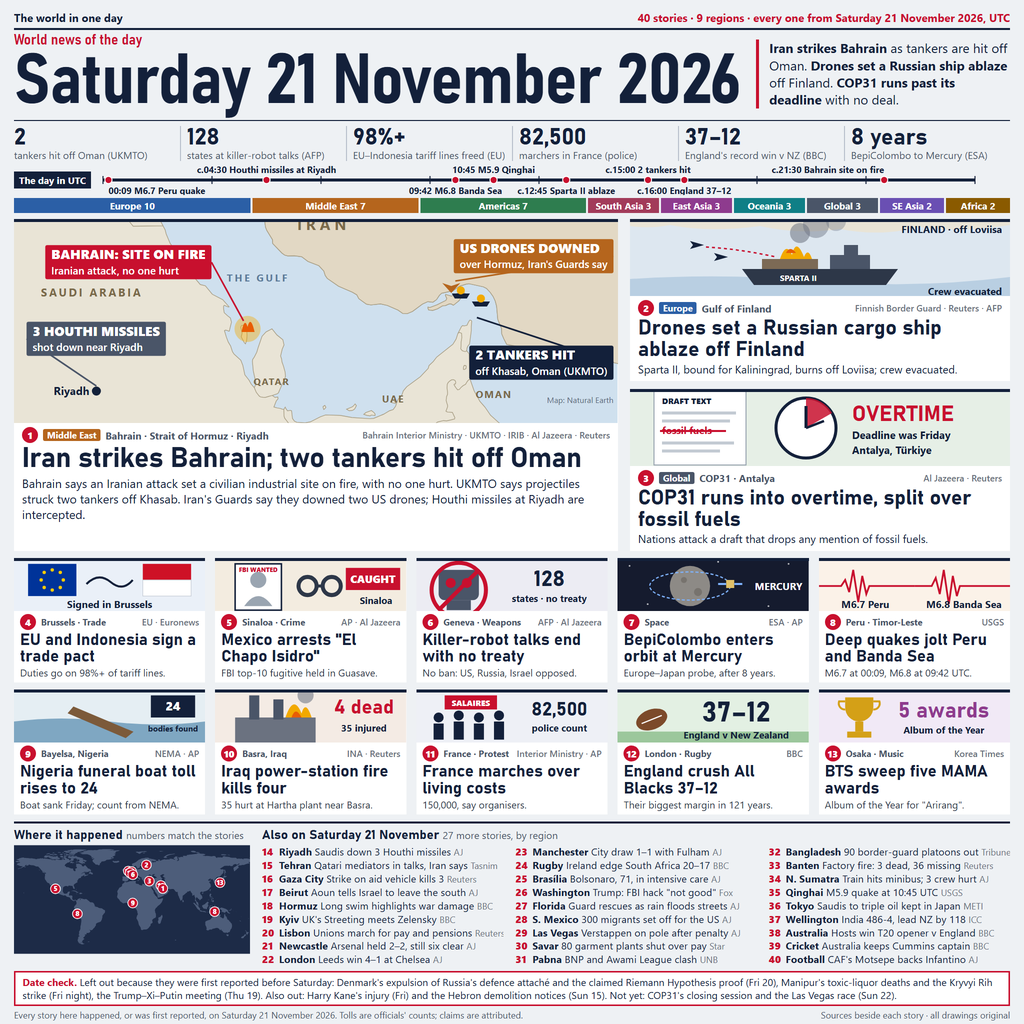
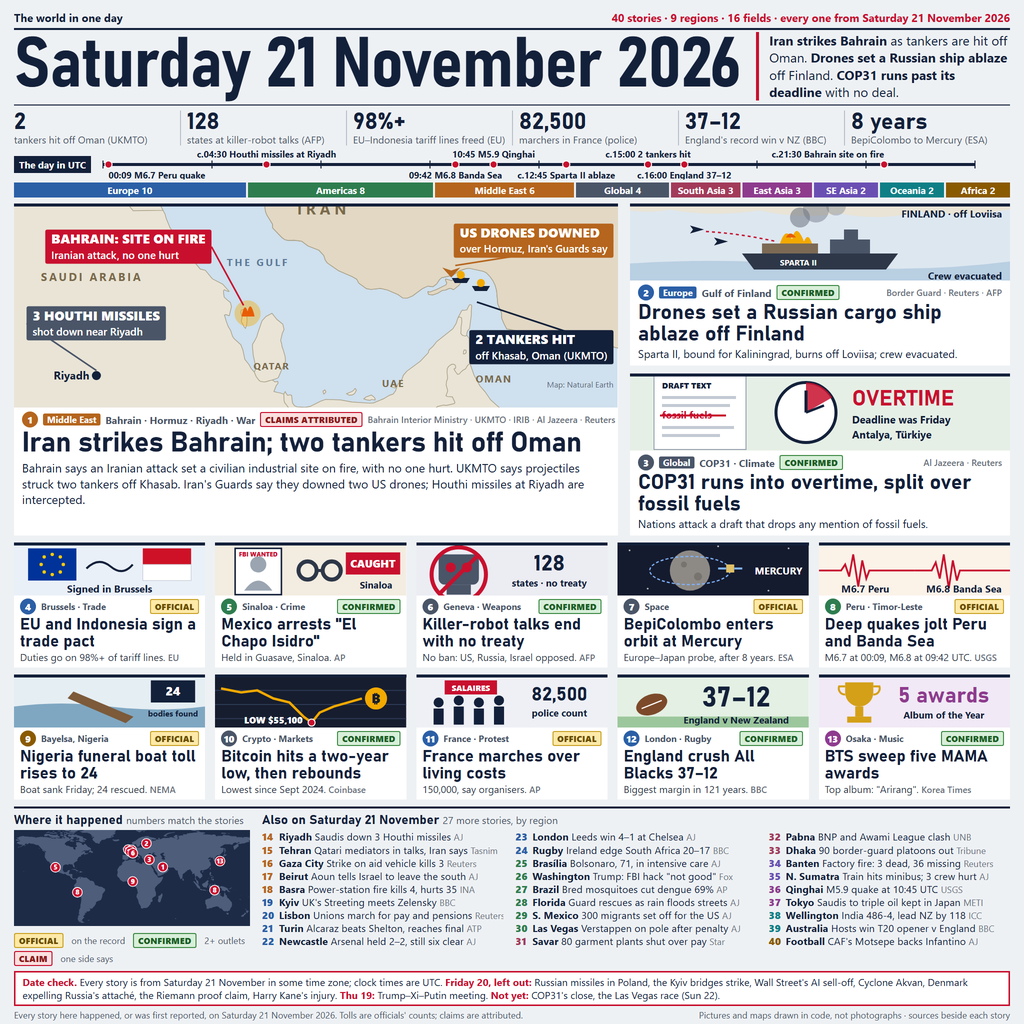
v5: confidence tags, region-coloured story numbers, Bitcoin card, fuller date check

diff --git a/src/front.html b/src/front.html
@@ -1,4 +1,4 @@
-<!DOCTYPE html>
+<!DOCTYPE html>
 <html lang="en">
 <head>
 <meta charset="utf-8">
@@ -49,6 +49,14 @@
   .n { display: inline-flex; align-items: center; justify-content: center; width: 16px; height: 16px; border-radius: 50%;
     background: var(--red); color: #fff; font-size: 9.5px; font-weight: 800; flex: none; }
   .reg { color: #fff; padding: 0 4px; border-radius: 2px; font-size: 9px; }
+  .tag { font-size: 8.5px; font-weight: 800; padding: 0 4px; border-radius: 2px; line-height: 13px; letter-spacing: .02em; }
+  .t-off { background: #fde9a8; color: #6b4e00; border: 1px solid #c9a227; }
+  .t-con { background: #d8efd9; color: #1d5e25; border: 1px solid #3d8b45; }
+  .t-clm { background: #fbe0e0; color: #8b1a1a; border: 1px solid #c8102e; }
+  .t-rep { background: #e6e9ee; color: #374151; border: 1px solid #8a94a3; }
+  .c { position: relative; }
+  .c p em.s { font-style: normal; color: #6b7280; font-size: 9px; font-weight: 600; }
+  .legend { display: flex; flex-wrap: wrap; gap: 3px 8px; font-size: 9px; color: var(--muted); margin-top: 3px; align-items: center; }
   .src { margin-left: auto; font-weight: 600; font-size: 9px; color: #6b7280; }
   .lead h2 { font-family: "Bahnschrift", sans-serif; font-weight: 700; font-size: 28px; line-height: 1.02; margin: 2px 8px 2px; letter-spacing: -.3px; }
   .lead p { font-size: 12px; line-height: 1.3; margin: 0 8px; }
@@ -69,7 +77,7 @@
   .hd { font-family: "Bahnschrift", sans-serif; font-weight: 700; font-size: 13px; margin-bottom: 2px; }
   .hd span { font-family: "Segoe UI"; font-weight: 400; font-size: 10px; color: var(--muted); }
   .briefs { display: grid; grid-template-columns: 1fr 1fr 1fr; grid-template-rows: repeat(9, auto); grid-auto-flow: column; column-gap: 12px; }
-  .briefs div { font-size: 10.2px; line-height: 1.32; white-space: nowrap; overflow: hidden; text-overflow: clip; }
+  .briefs div { font-size: 10.2px; line-height: 1.28; white-space: nowrap; overflow: hidden; text-overflow: clip; }
   .briefs i { font-style: normal; display: inline-block; width: 17px; font-weight: 800; color: var(--red); }
   .briefs b { font-weight: 700; }
   .briefs em { font-style: normal; color: #6b7280; font-size: 9px; }
@@ -82,10 +90,10 @@
 </head>
 <body>
 
-<div class="top"><span>The world in one day</span><span class="r">40 stories · 9 regions · every one from Saturday 21 November 2026, UTC</span></div>
+<div class="top"><span>The world in one day</span><span class="r">40 stories · 9 regions · 16 fields · every one from Saturday 21 November 2026</span></div>
 
 <div class="mast">
-  <h1 class="cond"><small>World news of the day</small>Saturday 21 November 2026</h1>
+  <h1 class="cond">Saturday 21 November 2026</h1>
   <div class="lede"><b>Iran strikes Bahrain</b> as tankers are hit off Oman. <b>Drones set a Russian ship ablaze</b> off Finland. <b>COP31 runs past its deadline</b> with no deal.</div>
 </div>
 
@@ -112,7 +120,7 @@
       <path d="{{GULF_IRAN}}" fill="#e2d8c4" stroke="#a99f86" stroke-width=".7"/>
       <g id="gulf-marks"></g>
     </svg>
-    <div class="meta"><span class="n">1</span><span class="reg" style="background:var(--me)">Middle East</span>Bahrain · Strait of Hormuz · Riyadh<span class="src">Bahrain Interior Ministry · UKMTO · IRIB · Al Jazeera · Reuters</span></div>
+    <div class="meta"><span class="n" style="background:#b5651d">1</span><span class="reg" style="background:var(--me)">Middle East</span>Bahrain · Hormuz · Riyadh · War<span class="tag t-clm">CLAIMS ATTRIBUTED</span><span class="src">Bahrain Interior Ministry · UKMTO · IRIB · Al Jazeera · Reuters</span></div>
     <h2>Iran strikes Bahrain; two tankers hit off Oman</h2>
     <p>Bahrain says an Iranian attack set a civilian industrial site on fire, with no one hurt. UKMTO says projectiles struck two tankers off Khasab. Iran's Guards say they downed two US drones; Houthi missiles at Riyadh are intercepted.</p>
   </div>
@@ -139,7 +147,7 @@
         <path d="M76 36 Q 110 38 146 46" stroke="var(--red)" stroke-width="1.4" stroke-dasharray="3 3" fill="none"/>
         <text x="372" y="84" text-anchor="end" class="lbl" style="font-size:10px">Crew evacuated</text>
       </svg>
-      <div class="meta"><span class="n">2</span><span class="reg" style="background:var(--eu)">Europe</span>Gulf of Finland<span class="src">Finnish Border Guard · Reuters · AFP</span></div>
+      <div class="meta"><span class="n" style="background:#2b5fa6">2</span><span class="reg" style="background:var(--eu)">Europe</span>Gulf of Finland<span class="tag t-con">CONFIRMED</span><span class="src">Border Guard · Reuters · AFP</span></div>
       <h2>Drones set a Russian cargo ship ablaze off Finland</h2>
       <p>Sparta II, bound for Kaliningrad, burns off Loviisa; crew evacuated.</p>
     </div>
@@ -160,7 +168,7 @@
         <text x="222" y="58" class="lbl" style="font-size:10.5px">Deadline was Friday</text>
         <text x="222" y="73" class="lbl" style="font-size:10.5px">Antalya, Türkiye</text>
       </svg>
-      <div class="meta"><span class="n">3</span><span class="reg" style="background:var(--gl)">Global</span>COP31 · Antalya<span class="src">Al Jazeera · Reuters</span></div>
+      <div class="meta"><span class="n" style="background:#4a5568">3</span><span class="reg" style="background:var(--gl)">Global</span>COP31 · Climate<span class="tag t-con">CONFIRMED</span><span class="src">Al Jazeera · Reuters</span></div>
       <h2>COP31 runs into overtime, split over fossil fuels</h2>
       <p>Nations attack a draft that drops any mention of fossil fuels.</p>
     </div>
@@ -178,9 +186,9 @@
       <path d="M72 28 Q 84 16 96 26 Q 108 36 118 24" stroke="var(--ink)" stroke-width="2" fill="none"/>
       <text x="95" y="52" text-anchor="middle" class="lbl" style="font-size:10px">Signed in Brussels</text>
     </svg>
-    <div class="meta"><span class="n">4</span>Brussels · Trade<span class="src">EU · Euronews</span></div>
+    <div class="meta"><span class="n" style="background:#2b5fa6">4</span>Brussels · Trade<span class="tag t-off" style="margin-left:auto">OFFICIAL</span></div>
     <h3>EU and Indonesia sign a trade pact</h3>
-    <p>Duties go on 98%+ of tariff lines.</p>
+    <p>Duties go on 98%+ of tariff lines. <em class="s">EU</em></p>
   </div>
 
   <div class="c">
@@ -194,9 +202,9 @@
       <text x="157" y="27" text-anchor="middle" fill="#fff" style="font-size:10.5px;font-weight:800">CAUGHT</text>
       <text x="160" y="48" text-anchor="middle" class="lbl" style="font-size:9.5px">Sinaloa</text>
     </svg>
-    <div class="meta"><span class="n">5</span>Sinaloa · Crime<span class="src">AP · Al Jazeera</span></div>
+    <div class="meta"><span class="n" style="background:#2e7d4f">5</span>Sinaloa · Crime<span class="tag t-con" style="margin-left:auto">CONFIRMED</span></div>
     <h3>Mexico arrests "El Chapo Isidro"</h3>
-    <p>FBI top-10 fugitive held in Guasave.</p>
+    <p>Held in Guasave, Sinaloa. <em class="s">AP</em></p>
   </div>
 
   <div class="c">
@@ -208,9 +216,9 @@
       <text x="132" y="30" text-anchor="middle" style="font-size:22px;font-weight:800;font-family:Bahnschrift" fill="var(--ink)">128</text>
       <text x="132" y="46" text-anchor="middle" class="lbl" style="font-size:9.5px">states · no treaty</text>
     </svg>
-    <div class="meta"><span class="n">6</span>Geneva · Weapons<span class="src">AFP · Al Jazeera</span></div>
+    <div class="meta"><span class="n" style="background:#4a5568">6</span>Geneva · Weapons<span class="tag t-con" style="margin-left:auto">CONFIRMED</span></div>
     <h3>Killer-robot talks end with no treaty</h3>
-    <p>No ban: US, Russia, Israel opposed.</p>
+    <p>No ban: US, Russia, Israel opposed. <em class="s">AFP</em></p>
   </div>
 
   <div class="c">
@@ -222,9 +230,9 @@
       <rect x="108" y="24" width="8" height="8" fill="#e0c068"/><rect x="100" y="27" width="8" height="2" fill="#7fb3ff"/><rect x="116" y="27" width="8" height="2" fill="#7fb3ff"/>
       <text x="160" y="34" text-anchor="middle" fill="#fff" style="font-size:10px;font-weight:700">MERCURY</text>
     </svg>
-    <div class="meta"><span class="n">7</span>Space<span class="src">ESA · AP</span></div>
+    <div class="meta"><span class="n" style="background:#4a5568">7</span>Space<span class="tag t-off" style="margin-left:auto">OFFICIAL</span></div>
     <h3>BepiColombo enters orbit at Mercury</h3>
-    <p>Europe–Japan probe, after 8 years.</p>
+    <p>Europe–Japan probe, after 8 years. <em class="s">ESA</em></p>
   </div>
 
   <div class="c">
@@ -235,9 +243,9 @@
       <text x="46" y="52" text-anchor="middle" class="lbl" style="font-size:10px">M6.7 Peru</text>
       <text x="144" y="52" text-anchor="middle" class="lbl" style="font-size:10px">M6.8 Banda Sea</text>
     </svg>
-    <div class="meta"><span class="n">8</span>Peru · Timor-Leste<span class="src">USGS</span></div>
+    <div class="meta"><span class="n" style="background:#2e7d4f">8</span>Peru · Timor-Leste<span class="tag t-off" style="margin-left:auto">OFFICIAL</span></div>
     <h3>Deep quakes jolt Peru and Banda Sea</h3>
-    <p>M6.7 at 00:09, M6.8 at 09:42 UTC.</p>
+    <p>M6.7 at 00:09, M6.8 at 09:42 UTC. <em class="s">USGS</em></p>
   </div>
 
   <div class="c">
@@ -249,23 +257,23 @@
       <text x="158" y="23" text-anchor="middle" fill="#fff" style="font-size:12px;font-weight:800">24</text>
       <text x="158" y="44" text-anchor="middle" fill="var(--ink)" style="font-size:8px;font-weight:700">bodies found</text>
     </svg>
-    <div class="meta"><span class="n">9</span>Bayelsa, Nigeria<span class="src">NEMA · AP</span></div>
+    <div class="meta"><span class="n" style="background:#8a5a00">9</span>Bayelsa, Nigeria<span class="tag t-off" style="margin-left:auto">OFFICIAL</span></div>
     <h3>Nigeria funeral boat toll rises to 24</h3>
-    <p>Boat sank Friday; count from NEMA.</p>
+    <p>Boat sank Friday; 24 rescued. <em class="s">NEMA</em></p>
   </div>
 
   <div class="c">
     <svg viewBox="0 0 190 60" preserveAspectRatio="xMidYMid slice">
-      <rect width="190" height="60" fill="#f4ebe4"/>
-      <rect x="20" y="30" width="80" height="26" fill="#6b7280"/><rect x="34" y="8" width="10" height="24" fill="#4a5568"/><rect x="58" y="12" width="10" height="20" fill="#4a5568"/>
-      <path d="M70 30 Q 78 6 86 26 Q 90 12 96 30Z" fill="var(--amber)"/><path d="M76 30 Q 80 18 86 30Z" fill="#e85d04"/>
-      <circle cx="90" cy="8" r="8" fill="#4a5568" opacity=".45"/>
-      <text x="148" y="26" text-anchor="middle" style="font-size:20px;font-weight:800;font-family:Bahnschrift" fill="var(--red)">4 dead</text>
-      <text x="148" y="44" text-anchor="middle" class="lbl" style="font-size:9.5px">35 injured</text>
+      <rect width="190" height="60" fill="#161d2e"/>
+      <g stroke="#2c3a55" stroke-width="1"><line x1="0" y1="18" x2="190" y2="18"/><line x1="0" y1="32" x2="190" y2="32"/><line x1="0" y1="46" x2="190" y2="46"/></g>
+      <path d="M6 16 L26 20 L42 18 L58 26 L74 30 L88 44 L96 50 L104 40 L118 34 L132 30 L146 26" stroke="#f2a900" stroke-width="2.4" fill="none"/>
+      <circle cx="96" cy="50" r="3.5" fill="#c8102e" stroke="#fff" stroke-width="1"/>
+      <text x="58" y="51" text-anchor="middle" fill="#fff" style="font-size:9px;font-weight:800">LOW $55,100</text>
+      <circle cx="160" cy="26" r="11" fill="#f2a900"/><text x="160" y="30.5" text-anchor="middle" fill="#161d2e" style="font-size:13px;font-weight:800">₿</text>
     </svg>
-    <div class="meta"><span class="n">10</span>Basra, Iraq<span class="src">INA · Reuters</span></div>
-    <h3>Iraq power-station fire kills four</h3>
-    <p>35 hurt at Hartha plant near Basra.</p>
+    <div class="meta"><span class="n" style="background:#4a5568">10</span>Crypto · Markets<span class="tag t-con" style="margin-left:auto">CONFIRMED</span></div>
+    <h3>Bitcoin hits a two-year low, then rebounds</h3>
+    <p>Lowest since Sept 2024. <em class="s">Coinbase</em></p>
   </div>
 
   <div class="c">
@@ -281,9 +289,9 @@
       <text x="142" y="28" text-anchor="middle" style="font-size:19px;font-weight:800;font-family:Bahnschrift" fill="var(--ink)">82,500</text>
       <text x="142" y="44" text-anchor="middle" class="lbl" style="font-size:9.5px">police count</text>
     </svg>
-    <div class="meta"><span class="n">11</span>France · Protest<span class="src">Interior Ministry · AP</span></div>
+    <div class="meta"><span class="n" style="background:#2b5fa6">11</span>France · Protest<span class="tag t-off" style="margin-left:auto">OFFICIAL</span></div>
     <h3>France marches over living costs</h3>
-    <p>150,000, say organisers.</p>
+    <p>150,000, say organisers. <em class="s">AP</em></p>
   </div>
 
   <div class="c">
@@ -294,9 +302,9 @@
       <text x="118" y="34" text-anchor="middle" style="font-size:28px;font-weight:800;font-family:Bahnschrift" fill="var(--ink)">37–12</text>
       <text x="118" y="51" text-anchor="middle" class="lbl" style="font-size:9.5px">England v New Zealand</text>
     </svg>
-    <div class="meta"><span class="n">12</span>London · Rugby<span class="src">BBC</span></div>
+    <div class="meta"><span class="n" style="background:#2b5fa6">12</span>London · Rugby<span class="tag t-con" style="margin-left:auto">CONFIRMED</span></div>
     <h3>England crush All Blacks 37–12</h3>
-    <p>Their biggest margin in 121 years.</p>
+    <p>Biggest margin in 121 years. <em class="s">BBC</em></p>
   </div>
 
   <div class="c">
@@ -307,9 +315,9 @@
       <text x="124" y="30" text-anchor="middle" style="font-size:22px;font-weight:800;font-family:Bahnschrift" fill="var(--as)">5 awards</text>
       <text x="124" y="46" text-anchor="middle" class="lbl" style="font-size:9.5px">Album of the Year</text>
     </svg>
-    <div class="meta"><span class="n">13</span>Osaka · Music<span class="src">Korea Times</span></div>
+    <div class="meta"><span class="n" style="background:#8e3b8e">13</span>Osaka · Music<span class="tag t-con" style="margin-left:auto">CONFIRMED</span></div>
     <h3>BTS sweep five MAMA awards</h3>
-    <p>Album of the Year for "Arirang".</p>
+    <p>Top album: "Arirang". <em class="s">Korea Times</em></p>
   </div>
 </div>
 
@@ -317,47 +325,48 @@
 <div class="bottom">
   <div>
     <div class="hd">Where it happened <span>numbers match the stories</span></div>
-    <svg id="world" viewBox="0 0 300 138" width="236" height="109">
+    <svg id="world" viewBox="0 0 300 138" width="236" height="96" preserveAspectRatio="xMidYMid slice">
       <rect width="300" height="138" fill="#1d2b47"/>
       <path d="{{WORLD_LAND}}" fill="#4d5d7a"/>
       <g id="pins"></g>
     </svg>
+    <div class="legend"><span class="tag t-off">OFFICIAL</span>on the record <span class="tag t-con">CONFIRMED</span>2+ outlets <span class="tag t-clm">CLAIM</span>one side says</div>
   </div>
   <div>
     <div class="hd">Also on Saturday 21 November <span>27 more stories, by region</span></div>
     <div class="briefs">
-      <div><i>14</i><b>Riyadh</b> Saudis down 3 Houthi missiles <em>AJ</em></div>
-      <div><i>15</i><b>Tehran</b> Qatari mediators in talks, Iran says <em>Tasnim</em></div>
-      <div><i>16</i><b>Gaza City</b> Strike on aid vehicle kills 3 <em>Reuters</em></div>
-      <div><i>17</i><b>Beirut</b> Aoun tells Israel to leave the south <em>AJ</em></div>
-      <div><i>18</i><b>Hormuz</b> Long swim highlights war damage <em>BBC</em></div>
-      <div><i>19</i><b>Kyiv</b> UK's Streeting meets Zelensky <em>BBC</em></div>
-      <div><i>20</i><b>Lisbon</b> Unions march for pay and pensions <em>Reuters</em></div>
-      <div><i>21</i><b>Newcastle</b> Arsenal held 2–2, still six clear <em>AJ</em></div>
-      <div><i>22</i><b>London</b> Leeds win 4–1 at Chelsea <em>AJ</em></div>
-      <div><i>23</i><b>Manchester</b> City draw 1–1 with Fulham <em>AJ</em></div>
-      <div><i>24</i><b>Rugby</b> Ireland edge South Africa 20–17 <em>BBC</em></div>
-      <div><i>25</i><b>Brasília</b> Bolsonaro, 71, in intensive care <em>AJ</em></div>
-      <div><i>26</i><b>Washington</b> Trump: FBI hack "not good" <em>Fox</em></div>
-      <div><i>27</i><b>Florida</b> Guard rescues as rain floods streets <em>AJ</em></div>
-      <div><i>28</i><b>S. Mexico</b> 300 migrants set off for the US <em>AJ</em></div>
-      <div><i>29</i><b>Las Vegas</b> Verstappen on pole after penalty <em>AJ</em></div>
-      <div><i>30</i><b>Savar</b> 80 garment plants shut over pay <em>Star</em></div>
-      <div><i>31</i><b>Pabna</b> BNP and Awami League clash <em>UNB</em></div>
-      <div><i>32</i><b>Bangladesh</b> 90 border-guard platoons out <em>Tribune</em></div>
-      <div><i>33</i><b>Banten</b> Factory fire: 3 dead, 36 missing <em>Reuters</em></div>
-      <div><i>34</i><b>N. Sumatra</b> Train hits minibus; 3 crew hurt <em>AJ</em></div>
-      <div><i>35</i><b>Qinghai</b> M5.9 quake at 10:45 UTC <em>USGS</em></div>
-      <div><i>36</i><b>Tokyo</b> Saudis to triple oil kept in Japan <em>METI</em></div>
-      <div><i>37</i><b>Wellington</b> India 486-4, lead NZ by 118 <em>ICC</em></div>
-      <div><i>38</i><b>Australia</b> Hosts win T20 opener v England <em>BBC</em></div>
-      <div><i>39</i><b>Cricket</b> Australia keeps Cummins captain <em>BBC</em></div>
-      <div><i>40</i><b>Football</b> CAF's Motsepe backs Infantino <em>AJ</em></div>
+      <div><i style="color:#b5651d">14</i><b>Riyadh</b> Saudis down 3 Houthi missiles <em>AJ</em></div>
+      <div><i style="color:#b5651d">15</i><b>Tehran</b> Qatari mediators in talks, Iran says <em>Tasnim</em></div>
+      <div><i style="color:#b5651d">16</i><b>Gaza City</b> Strike on aid vehicle kills 3 <em>Reuters</em></div>
+      <div><i style="color:#b5651d">17</i><b>Beirut</b> Aoun tells Israel to leave the south <em>AJ</em></div>
+      <div><i style="color:#b5651d">18</i><b>Basra</b> Power-station fire kills 4, hurts 35 <em>INA</em></div>
+      <div><i style="color:#2b5fa6">19</i><b>Kyiv</b> UK's Streeting meets Zelensky <em>BBC</em></div>
+      <div><i style="color:#2b5fa6">20</i><b>Lisbon</b> Unions march for pay and pensions <em>Reuters</em></div>
+      <div><i style="color:#2b5fa6">21</i><b>Turin</b> Alcaraz beats Shelton, reaches final <em>ATP</em></div>
+      <div><i style="color:#2b5fa6">22</i><b>Newcastle</b> Arsenal held 2–2, still six clear <em>AJ</em></div>
+      <div><i style="color:#2b5fa6">23</i><b>London</b> Leeds win 4–1 at Chelsea <em>AJ</em></div>
+      <div><i style="color:#2b5fa6">24</i><b>Rugby</b> Ireland edge South Africa 20–17 <em>BBC</em></div>
+      <div><i style="color:#2e7d4f">25</i><b>Brasília</b> Bolsonaro, 71, in intensive care <em>AJ</em></div>
+      <div><i style="color:#2e7d4f">26</i><b>Washington</b> Trump: FBI hack "not good" <em>Fox</em></div>
+      <div><i style="color:#2e7d4f">27</i><b>Brazil</b> Bred mosquitoes cut dengue 69% <em>AP</em></div>
+      <div><i style="color:#2e7d4f">28</i><b>Florida</b> Guard rescues as rain floods streets <em>AJ</em></div>
+      <div><i style="color:#2e7d4f">29</i><b>S. Mexico</b> 300 migrants set off for the US <em>AJ</em></div>
+      <div><i style="color:#2e7d4f">30</i><b>Las Vegas</b> Verstappen on pole after penalty <em>AJ</em></div>
+      <div><i style="color:#a23b5a">31</i><b>Savar</b> 80 garment plants shut over pay <em>Star</em></div>
+      <div><i style="color:#a23b5a">32</i><b>Pabna</b> BNP and Awami League clash <em>UNB</em></div>
+      <div><i style="color:#a23b5a">33</i><b>Dhaka</b> 90 border-guard platoons out <em>Tribune</em></div>
+      <div><i style="color:#6a4fb3">34</i><b>Banten</b> Factory fire: 3 dead, 36 missing <em>Reuters</em></div>
+      <div><i style="color:#6a4fb3">35</i><b>N. Sumatra</b> Train hits minibus; 3 crew hurt <em>AJ</em></div>
+      <div><i style="color:#8e3b8e">36</i><b>Qinghai</b> M5.9 quake at 10:45 UTC <em>USGS</em></div>
+      <div><i style="color:#8e3b8e">37</i><b>Tokyo</b> Saudis to triple oil kept in Japan <em>METI</em></div>
+      <div><i style="color:#0f7f86">38</i><b>Wellington</b> India 486-4, lead NZ by 118 <em>ICC</em></div>
+      <div><i style="color:#0f7f86">39</i><b>Australia</b> Hosts win T20 opener v England <em>BBC</em></div>
+      <div><i style="color:#8a5a00">40</i><b>Football</b> CAF's Motsepe backs Infantino <em>AJ</em></div>
     </div>
   </div>
 </div>
-<div class="check"><b>Date check.</b> Left out because they were first reported before Saturday: Denmark's expulsion of Russia's defence attaché and the claimed Riemann Hypothesis proof (Fri 20), Manipur's toxic-liquor deaths and the Kryvyi Rih strike (Fri night), the Trump–Xi–Putin meeting (Thu 19). Also out: Harry Kane's injury (Fri) and the Hebron demolition notices (Sun 15). Not yet: COP31's closing session and the Las Vegas race (Sun 22).</div>
-<div class="foot"><span>Every story here happened, or was first reported, on Saturday 21 November 2026. Tolls are officials' counts; claims are attributed.</span><span>Sources beside each story · all drawings original</span></div>
+<div class="check"><b>Date check.</b> Every story is from Saturday 21 November in some time zone; clock times are UTC. <b>Friday 20, left out:</b> Russian missiles in Poland, the Kyiv bridges strike, Wall Street's AI sell-off, Cyclone Akvan, Denmark expelling Russia's attaché, the Riemann proof claim, Harry Kane's injury. <b>Thu 19:</b> Trump–Xi–Putin meeting. <b>Not yet:</b> COP31's close, the Las Vegas race (Sun 22).</div>
+<div class="foot"><span>Every story here happened, or was first reported, on Saturday 21 November 2026. Tolls are officials' counts; claims are attributed.</span><span>Pictures and maps drawn in code, not photographs · sources beside each story</span></div>
 
 <script>
   const NS = 'http://www.w3.org/2000/svg';
@@ -413,7 +422,7 @@
 
   // world pins
   const pg = document.getElementById('pins');
-  const order = ['13', '8b', '8', '9', '5', '12', '4', '11', '6', '2', '3', '10', '1'];
+  const order = ['13', '8b', '8', '9', '5', '12', '4', '11', '6', '2', '3', '1'];
   for (const k of order) {
     const [x, y] = W[k];
     el('circle', { cx: x, cy: y, r: 6.2, fill: '#c8102e', stroke: '#fff', 'stroke-width': 1 }, pg);
@@ -438,8 +447,8 @@
   }
 
   // region strip, counted from the stories above
-  const regions = [['Europe', 10, '#2b5fa6'], ['Middle East', 7, '#b5651d'], ['Americas', 7, '#2e7d4f'], ['South Asia', 3, '#a23b5a'],
-    ['East Asia', 3, '#8e3b8e'], ['Oceania', 3, '#0f7f86'], ['Global', 3, '#4a5568'], ['SE Asia', 2, '#6a4fb3'], ['Africa', 2, '#8a5a00']];
+  const regions = [['Europe', 10, '#2b5fa6'], ['Americas', 8, '#2e7d4f'], ['Middle East', 6, '#b5651d'], ['Global', 4, '#4a5568'],
+    ['South Asia', 3, '#a23b5a'], ['East Asia', 3, '#8e3b8e'], ['SE Asia', 2, '#6a4fb3'], ['Oceania', 2, '#0f7f86'], ['Africa', 2, '#8a5a00']];
   const strip = document.getElementById('regions');
   for (const [name, n, c] of regions) {
     const s = document.createElement('span');
